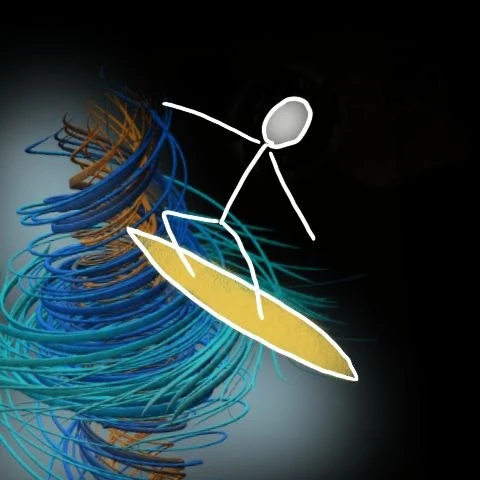
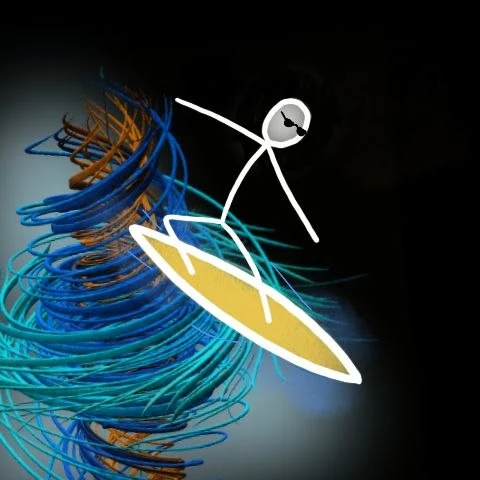
FIX: image

diff --git a/src/lib/post.tsx b/src/lib/post.tsx
@@ -1,19 +1,19 @@
-import { promises as fs } from 'fs';
-import path from 'path';
-import matter from 'gray-matter';
-import { unified } from 'unified';
-import remarkParse from 'remark-parse';
-import remarkRehype from 'remark-rehype';
-import rehypeStringify from 'rehype-stringify';
-import remarkMath from 'remark-math';
-import remarkGfm from 'remark-gfm';
-import rehypeKatex from 'rehype-katex';
-import remarkImages from './plugins/remark-images';
-import { remarkExtractToc } from './plugins/remark-extract-toc';
-import rehypeSlug from 'rehype-slug';
-import rehypeRaw from 'rehype-raw';
+import { promises as fs } from "fs";
+import path from "path";
+import matter from "gray-matter";
+import { unified } from "unified";
+import remarkParse from "remark-parse";
+import remarkRehype from "remark-rehype";
+import rehypeStringify from "rehype-stringify";
+import remarkMath from "remark-math";
+import remarkGfm from "remark-gfm";
+import rehypeKatex from "rehype-katex";
+import remarkImages from "./plugins/remark-images";
+import { remarkExtractToc } from "./plugins/remark-extract-toc";
+import rehypeSlug from "rehype-slug";
+import rehypeRaw from "rehype-raw";
 
-const Cite = require('citation-js');
+const Cite = require("citation-js");
 
 const contentCache = new Map();
 let bibliographyCache: any = null;
@@ -44,7 +44,7 @@ function createProcessor(toc: any[]) {
 export async function getContent(
   slug: string,
   directory: string,
-  bibliographyFile: string
+  bibliographyFile: string,
 ) {
   const cacheKey = `${slug}-${directory}-${bibliographyFile}`;
   if (contentCache.has(cacheKey)) {
@@ -53,14 +53,17 @@ export async function getContent(
 
   const filePath = path.join(directory, `${slug}.md`);
   try {
-    const fileContent = await fs.readFile(filePath, 'utf-8');
+    const fileContent = await fs.readFile(filePath, "utf-8");
     const { data, content } = matter(fileContent);
     const toc: { text: string; id: string; level: number }[] = [];
     const processor = createProcessor(toc);
     const processedContent = await processor.process(content);
 
     const bibliography = await loadBibliographyOnce(bibliographyFile);
-    const citationProcessing = processCitations(processedContent.toString(), bibliography);
+    const citationProcessing = processCitations(
+      processedContent.toString(),
+      bibliography,
+    );
 
     const result = {
       metadata: data,
@@ -94,17 +97,20 @@ function processCitations(content: string, bibliography: any) {
     return `<span class="citation">[${citationNumber}]</span>`;
   });
 
-  const bibliographyHtml = generateBibliographyHtml(citationOrder, bibliography);
+  const bibliographyHtml = generateBibliographyHtml(
+    citationOrder,
+    bibliography,
+  );
   return { htmlContent, bibliographyHtml };
 }
 
 function generateBibliographyHtml(
   citationOrder: string[],
-  bibliography: any
+  bibliography: any,
 ): string {
   const bibliographyEntries = citationOrder.map((citationKey, index) => {
     const rawEntry = bibliography.data.find(
-      (entry: any) => entry.id === citationKey
+      (entry: any) => entry.id === citationKey,
     );
 
     if (!rawEntry) {
@@ -115,17 +121,14 @@ function generateBibliographyHtml(
     // Format only this specific entry
     const singleCitation = new Cite([rawEntry]);
 
-    const formattedEntry = singleCitation.format('bibliography', {
-      format: 'html',
+    const formattedEntry = singleCitation.format("bibliography", {
+      format: "html",
     });
 
     const url = rawEntry.URL || rawEntry.url || rawEntry.note;
 
     // Remove URL already printed by the bibliography formatter
-    const cleanedEntry = formattedEntry.replace(
-      /https?:\/\/[^\s<]+/g,
-      ''
-    );
+    const cleanedEntry = formattedEntry.replace(/https?:\/\/[^\s<]+/g, "");
 
     const wrappedEntry = url
       ? `<a href="${url}" target="_blank" rel="noopener noreferrer">${cleanedEntry}</a>`
@@ -134,5 +137,5 @@ function generateBibliographyHtml(
     return `<li id="ref-${index + 1}">${wrappedEntry}</li>`;
   });
 
-  return `<ol class="bibliography">${bibliographyEntries.join('')}</ol>`;
+  return `<ol class="bibliography">${bibliographyEntries.join("")}</ol>`;
 }
